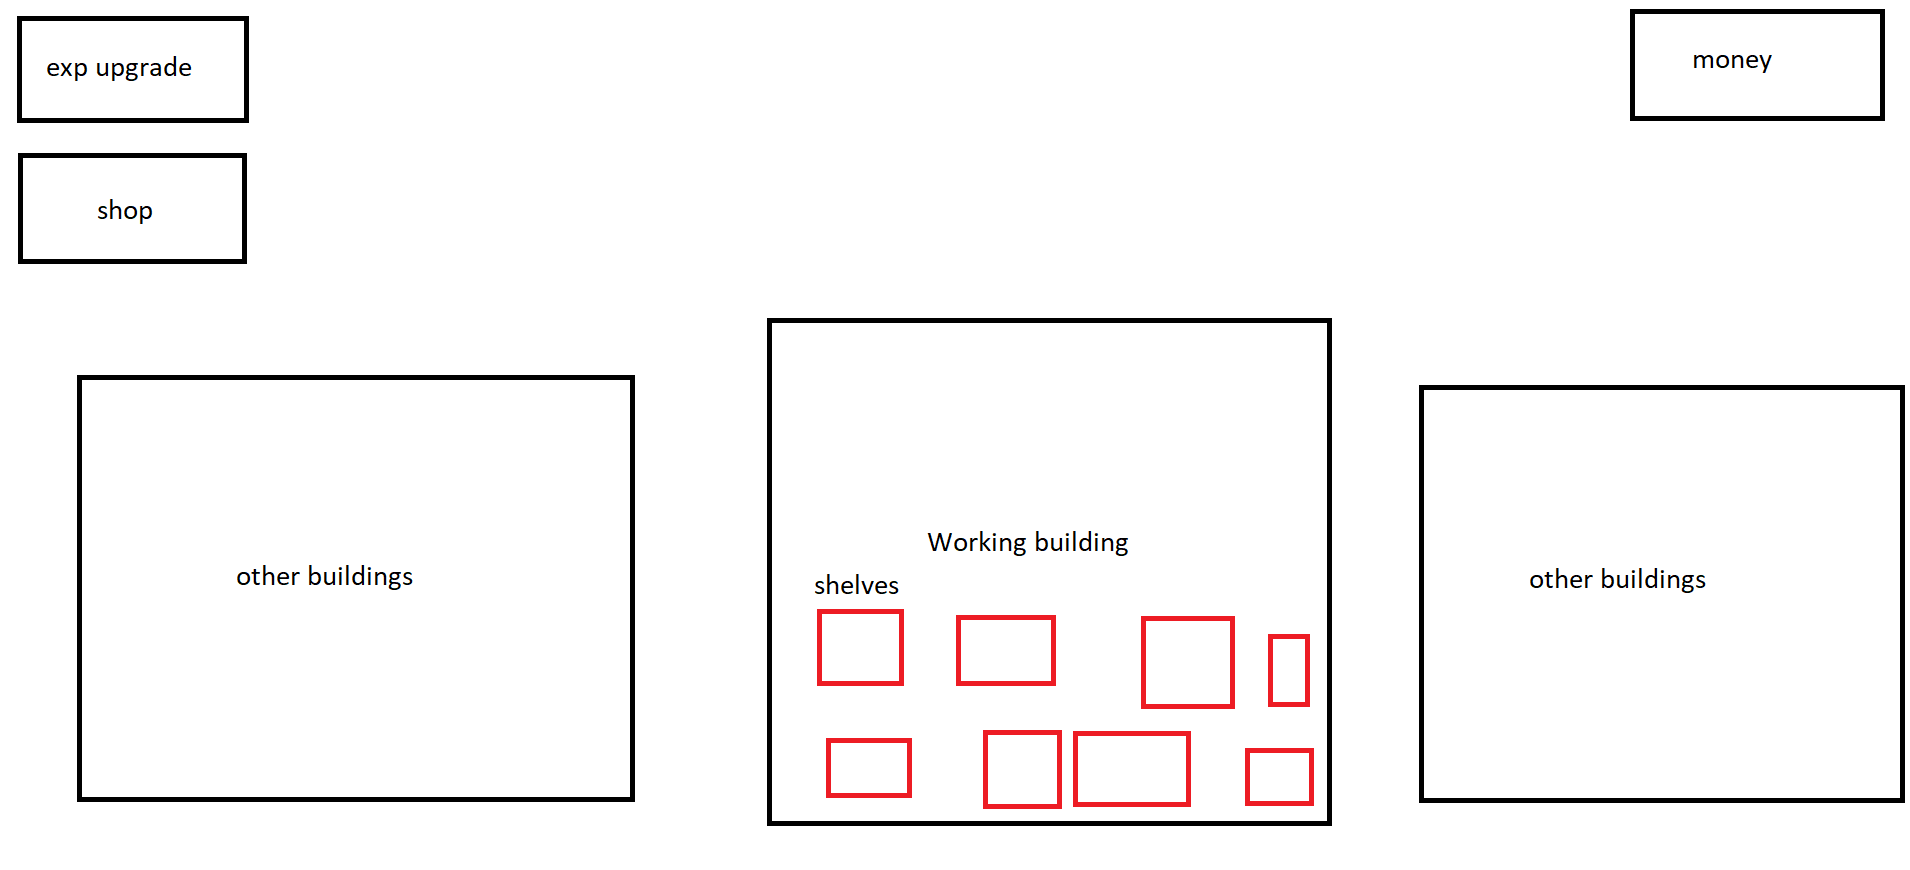
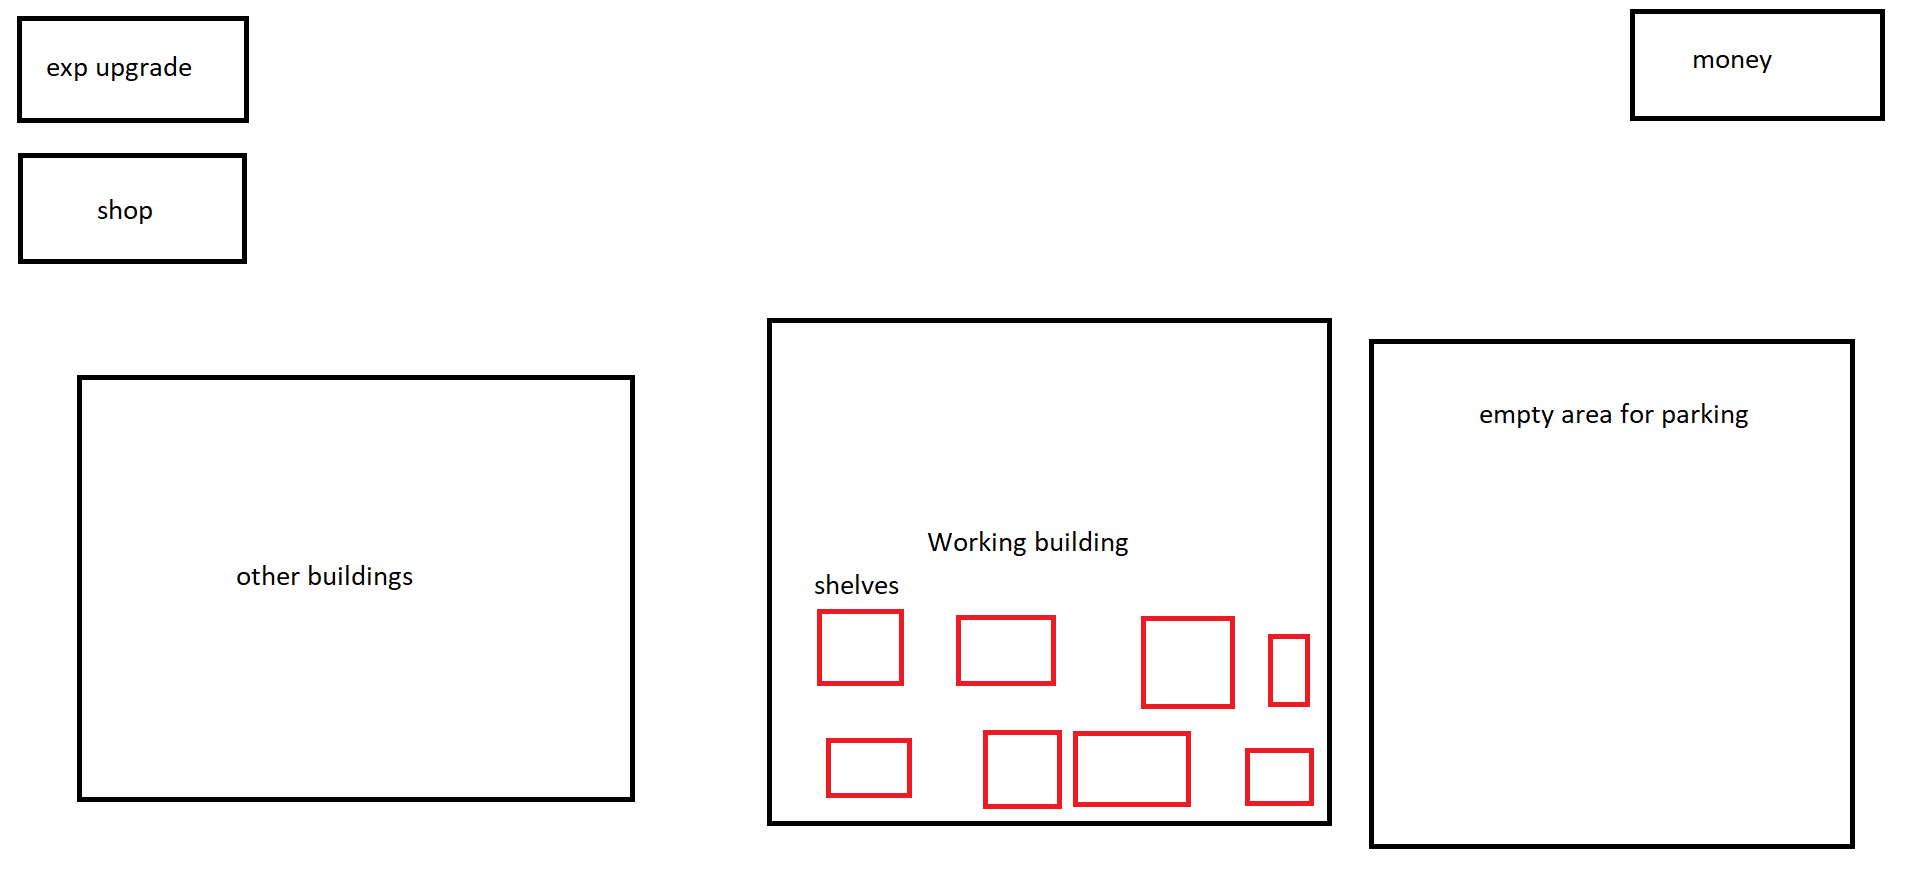
COMMMMIT

diff --git a/README.md b/README.md
@@ -1,1 +1,58 @@
 "# Tech-Tycoon-2" 
+
+------------------------------------------------------------------------------------------------------------------------------------------------------------------------------------------------------------------------------------
+
+Delivery Zone takes 5 - 10 minuets but you upgrade to make it faster.
+
+THINGS CAN BREAK WHEN BEING DELIVERED.
+
+There is a premium subscription for upgrades...
+
+Once you can buy the pc buuilder, it makes a certain area the builder.
+
+In the storage room, you can hold up to 20 items unitl upgrade.
+
+You gain exp and money for every customers purchase and rating on the internet.
+
+You can hire people to do things like sell items, clean floors and etc...
+
+People/customers can rate the store based on how easy it is to find items, the quality of items 
+(you can get sued for bad items after breakage in shipping or for being on shelves for to long).
+
+There is a delivery servivce which can deliver items to customers. We can charge them OR give it for free but
+no shipping-handling.
+
+There will be adveritisements which you buy to increase the amount of customers going to your store
+but this can also make it harder to keep a stock of items which will give you bad rates. You can buy billbourds, digital ads, posters, and parking.
+
+You can also upgrade parking space.  (Mabye)
+
+Add login to main menu
+
+You start with 200 BLING
+------------------------------------------------------------------------------------------------------------------------------------------------------------------------------------------------------------------------------------
+								CUSTOMERS
+
+They have Personality
+	-How they feel about the store and rating they will give
+	-Some don't care about how good the store is
+	-Some are rich buyers, and some are cheap buyers
+They have a certain amount of money
+They may have a specific item they want
+
+
+
+------------------------------------------------------------------------------------------------------------------------------------------------------------------------------------------------------------------------------------
+
+								MVP ITEMS
+
+Item 1- Main Menu
+Item 2- Make Building With Shelves
+Item 3- Make A GUI To Buy Items
+Item 4- Click a shelve to sell item in storage
+	-Display Things To Sell
+Item 5- Have Random Customers Come Buy And Look At The Items In Your Store
+
+
+
+
